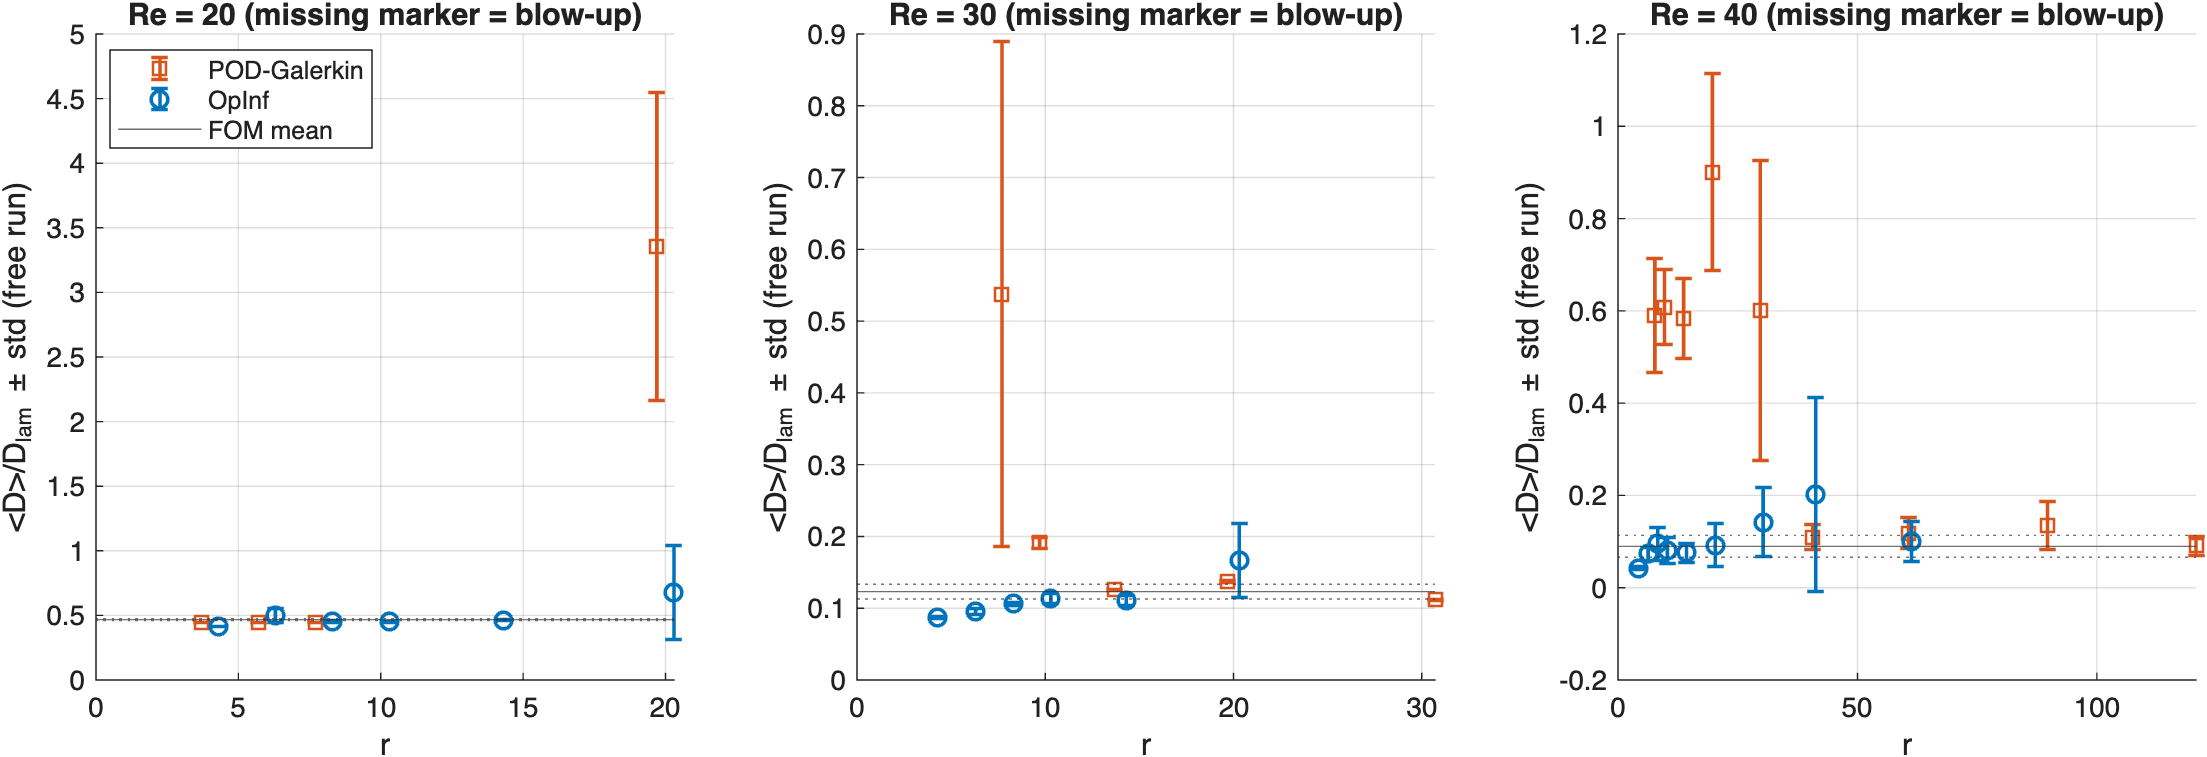
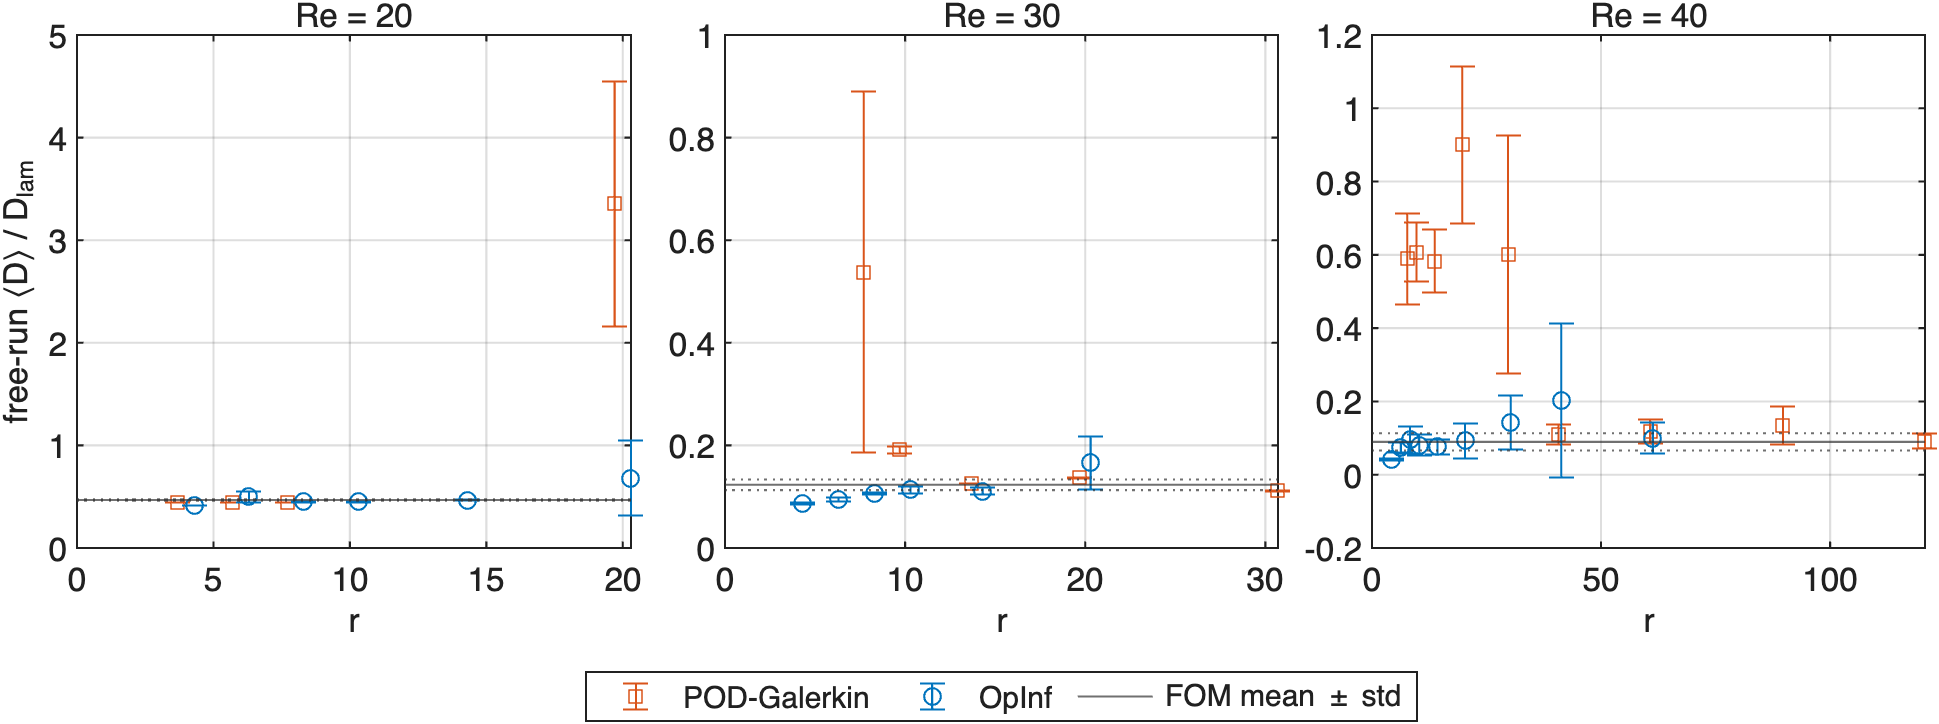
Print-size figures with larger text

diff --git a/rom/make_rom_figures.m b/rom/make_rom_figures.m
@@ -2,6 +2,12 @@
 % Reads ../rom_results/rom_Re20.mat, rom_Re30.mat, rom_Re40.mat, diag_Re40.mat,
 % rom_param.mat (and baseline_standard_POD/ for the symmetry comparison) and
 % writes PNG figures to ../rom_results/figures/ and a text summary.
+%
+% Every figure is drawn at the size it is printed (inches) with 8-9 pt text,
+% so nothing has to be shrunk later:
+%   paper, one column  (3.5 in):  fig_r1, fig_r7
+%   paper, full width  (6.2 in):  fig_r2, fig_r4      (5.2 in: fig_r9)
+%   slides only        (~7 in):   fig_r3, fig_r5, fig_r6, fig_r8
 
 clear; close all;
 here = fileparts(mfilename('fullpath'));  root = fileparts(here);  addpath(here);
@@ -37,178 +43,194 @@ for c = 1:3
     end
 end
 
-%% ---------------------------------------------------------------- Fig 1: symmetry
-f = figure('Position', [50 50 1100 380], 'Color', 'w');
+%% ---------------------------------------------------------------- Fig 1: symmetry (paper, one column)
+[f, tl] = newfig(3.5, 2.4, 8, 1, 2);  ax0 = [];
 for c = [1 3]
-    subplot(1, 2, 1 + (c == 3));
-    R = RR{c};  hold on;
+    ax = nexttile(tl);  hold on;  if isempty(ax0), ax0 = ax; end
+    R = RR{c};
     bfile = fullfile(res_dir, 'baseline_standard_POD', ['rom_' names{c} '.mat']);
     if exist(bfile, 'file')
         B = load(bfile, 'R');  rb = cellfun(@(x) x.r, B.R.res(:, 1));
-        plot(rb, B.R.proj_err_test, 's--', 'Color', cG, 'LineWidth', 1.3, 'DisplayName', 'standard POD, test window');
+        plot(rb, B.R.proj_err_test, 's--', 'Color', cG, 'MarkerSize', 4, 'DisplayName', 'standard POD, test');
     end
-    plot(R.r_list, R.proj_err_train, 'o:', 'Color', cO, 'LineWidth', 1.3, 'DisplayName', 'invariant POD, training window');
-    plot(R.r_list, R.proj_err_test, 'o-', 'Color', cO, 'LineWidth', 1.5, 'DisplayName', 'invariant POD, test window');
-    grid on;  xlabel('number of modes r');  ylabel('relative projection error');
-    title(sprintf('Re = %d: POD projection error', Res(c)));  legend('Location', 'northeast');  ylim([0 1]);
+    plot(R.r_list, R.proj_err_train, 'o:', 'Color', cO, 'MarkerSize', 4, 'DisplayName', 'invariant POD, train');
+    plot(R.r_list, R.proj_err_test, 'o-', 'Color', cO, 'MarkerSize', 4, 'DisplayName', 'invariant POD, test');
+    grid on;  box on;  xlabel('r');  ylim([0 1]);
+    if c == 1, ylabel('projection error'); end
+    title(sprintf('Re = %d', Res(c)));
 end
+shared_legend(ax0, 'north', 2);
 save_fig(f, fig_dir, 'fig_r1_symmetry_projection');
 
-%% ---------------------------------------------------------------- Fig 2: accuracy vs r
-f = figure('Position', [50 50 1300 700], 'Color', 'w');
+%% ---------------------------------------------------------------- Fig 2: accuracy vs r (paper, full width)
+[f, tl] = newfig(6.2, 3.9, 8, 2, 3);  axs = gobjects(2, 3);
 for c = 1:3
-    R = RR{c};  [cg, co, tg, to, fg, fo, tp, fp] = deal(nan(1, numel(R.r_list)));
+    R = RR{c};  [tg, to, fg, fo, tp, fp] = deal(nan(1, numel(R.r_list)));
     for ir = 1:numel(R.r_list)
         g = R.res{ir, 1};  o = R.res{ir, 2};
-        cg(ir) = g.coef_short;  tg(ir) = g.t_valid;  fg(ir) = g.err_short;
+        tg(ir) = g.t_valid;  fg(ir) = g.err_short;
         tp(ir) = R.pers{ir}.t_valid;  fp(ir) = R.pers{ir}.err_short;
-        if o.built, co(ir) = o.coef_short; to(ir) = o.t_valid; fo(ir) = o.err_short; end
+        if o.built, to(ir) = o.t_valid; fo(ir) = o.err_short; end
     end
-    subplot(2, 3, c);  hold on;
-    plot(R.r_list, fg, 's-', 'Color', cG, 'LineWidth', 1.5, 'DisplayName', 'POD-Galerkin');
-    plot(R.r_list, fo, 'o-', 'Color', cO, 'LineWidth', 1.5, 'DisplayName', 'OpInf');
-    plot(R.r_list, fp, ':', 'Color', cP, 'LineWidth', 1.5, 'DisplayName', 'persistence a(t)=a(t_0)');
-    plot(R.r_list, R.proj_err_test, 'k--', 'LineWidth', 1, 'DisplayName', 'projection (best possible)');
-    grid on;  xlabel('r');  ylabel('field error');  set(gca, 'YScale', 'log');
-    title(sprintf('Re = %d: field error, first %g time units', Res(c), R.cfg.horizon));
-    if c == 1, legend('Location', 'southwest'); end
-    subplot(2, 3, 3 + c);  hold on;
-    plot(R.r_list, tg, 's-', 'Color', cG, 'LineWidth', 1.5);
-    plot(R.r_list, to, 'o-', 'Color', cO, 'LineWidth', 1.5);
+    axs(1, c) = nexttile(tl, c);  hold on;
+    plot(R.r_list, fg, 's-', 'Color', cG, 'MarkerSize', 4, 'DisplayName', 'POD-Galerkin');
+    plot(R.r_list, fo, 'o-', 'Color', cO, 'MarkerSize', 4, 'DisplayName', 'OpInf');
+    plot(R.r_list, fp, ':', 'Color', cP, 'LineWidth', 1.5, 'DisplayName', 'persistence');
+    plot(R.r_list, R.proj_err_test, 'k--', 'DisplayName', 'projection error (best possible)');
+    grid on;  box on;  set(gca, 'YScale', 'log');
+    yt = [0.05 0.1 0.2 0.3 0.5 1 2 3 5];  yl = ylim;  yt = yt(yt >= yl(1) & yt <= yl(2));
+    set(gca, 'YTick', yt, 'YTickLabel', compose('%g', yt), 'YMinorGrid', 'off');
+    if c == 1, ylabel('field error'); end
+    title(sprintf('Re = %d', Res(c)));
+    axs(2, c) = nexttile(tl, 3 + c);  hold on;
+    plot(R.r_list, tg, 's-', 'Color', cG, 'MarkerSize', 4);
+    plot(R.r_list, to, 'o-', 'Color', cO, 'MarkerSize', 4);
     plot(R.r_list, tp, ':', 'Color', cP, 'LineWidth', 1.5);
-    yline(R.cfg.Hv, 'k:', 'test horizon');
-    grid on;  xlabel('r');  ylabel('valid prediction time');
-    title(sprintf('Re = %d: time until coef. error > %.1f', Res(c), R.cfg.tv_thr));
+    yline(R.cfg.Hv, 'k:', 'test horizon', 'LabelVerticalAlignment', 'bottom', 'FontSize', 7);
+    grid on;  box on;  xlabel('r');  ylim([0 1.15 * R.cfg.Hv]);
+    if c == 1, ylabel('valid time t_v'); end
 end
+shared_legend(axs(1, 1), 'south', 4);
 save_fig(f, fig_dir, 'fig_r2_accuracy_vs_r');
 
-%% ---------------------------------------------------------------- Fig 3: error vs time
-f = figure('Position', [50 50 1300 380], 'Color', 'w');
+%% ---------------------------------------------------------------- Fig 3: error vs time (slides)
+[f, tl] = newfig(7, 2.6, 9, 1, 3);  ax0 = [];
 rshow = [20 20 30];
 for c = 1:3
     R = RR{c};  ir = find(R.r_list >= rshow(c), 1);
-    dt = R.t(2) - R.t(1);  subplot(1, 3, c);  hold on;
+    dt = R.t(2) - R.t(1);  ax = nexttile(tl);  hold on;  if isempty(ax0), ax0 = ax; end
     for im = 1:2
         x = R.res{ir, im};  if ~x.built, continue; end
         cc = x.coef_curves;  cc(isnan(cc)) = 2;  tt = (0:size(cc, 2)-1) * dt;
         col = cG;  if im == 2, col = cO; end
-        plot(tt, cc', '-', 'Color', [col 0.25], 'HandleVisibility', 'off');
+        plot(tt, cc', '-', 'Color', [col 0.25], 'LineWidth', 0.6, 'HandleVisibility', 'off');
         plot(tt, mean(cc, 1), '-', 'Color', col, 'LineWidth', 2, 'DisplayName', x.rom.type);
     end
     pcv = R.pers{ir}.coef_curves;
     plot((0:size(pcv, 2)-1) * dt, mean(pcv, 1), ':', 'Color', cP, 'LineWidth', 2, 'DisplayName', 'persistence');
     yline(R.cfg.tv_thr, 'k:', 'HandleVisibility', 'off');
-    grid on;  xlabel('time since start of prediction');  ylabel('coefficient error');
-    title(sprintf('Re = %d, r = %d (test window, %d starts)', Res(c), R.r_list(ir), size(cc, 1)));
-    ylim([0 2]);  legend('Location', 'southeast');
+    grid on;  box on;  xlabel('time since start');  ylim([0 2]);
+    if c == 1, ylabel('coefficient error'); end
+    title(sprintf('Re = %d, r = %d', Res(c), R.r_list(ir)));
 end
+shared_legend(ax0, 'south', 3);
 save_fig(f, fig_dir, 'fig_r3_error_vs_time');
 
-%% ---------------------------------------------------------------- Fig 4: long free runs at Re = 40
+%% ---------------------------------------------------------------- Fig 4: long free runs at Re = 40 (paper, full width)
 R = RR{3};  kfree = find(R.t >= R.cfg.t_train(1));  tf = R.t(kfree);
 rr = [10 30 121];                                            % 121: Galerkin only (converged)
-f = figure('Position', [50 50 1300 800], 'Color', 'w');
+[f, tl] = newfig(6.2, 4.6, 8, numel(rr), 4);  ax0 = [];
+edges = linspace(0, 0.4, 41);
 for q = 1:numel(rr)
     ir = find(R.r_list >= rr(q), 1);
-    subplot(numel(rr), 4, (q-1)*4 + (1:3));  hold on;
-    plot(tf, R.D_fom(kfree), '-', 'Color', cF, 'DisplayName', 'FOM');
+    ax = nexttile(tl, [1 3]);  hold on;  if isempty(ax0), ax0 = ax; end
+    plot(tf, R.D_fom(kfree), '-', 'Color', cF, 'LineWidth', 0.8, 'DisplayName', 'FOM');
     for im = 1:2
         x = R.res{ir, im};  if ~x.built, continue; end
         col = cG;  if im == 2, col = cO; end
-        plot(tf, x.D_free, '-', 'Color', col, 'DisplayName', sprintf('%s (%s)', x.rom.type, x.free_status));
+        plot(tf, x.D_free, '-', 'Color', col, 'LineWidth', 0.8, 'DisplayName', x.rom.type);
     end
-    xline(R.cfg.t_train(2), 'k--', 'end of training', 'HandleVisibility', 'off');
-    grid on;  ylim([0 0.4]);  ylabel('D / D_{lam}');
-    title(sprintf('Re = 40, r = %d: free run from t = %g', R.r_list(ir), tf(1)));
-    if q == 1, legend('Location', 'northwest'); end
+    if q == 1
+        xline(R.cfg.t_train(2), 'k--', 'end of training ', 'LabelOrientation', 'horizontal', ...
+            'LabelHorizontalAlignment', 'left', 'LabelVerticalAlignment', 'top', 'FontSize', 7, 'HandleVisibility', 'off');
+    else
+        xline(R.cfg.t_train(2), 'k--', 'HandleVisibility', 'off');
+    end
+    grid on;  box on;  ylim([0 0.4]);  xlim([tf(1) tf(end)]);  ylabel('D / D_{lam}');
+    title(sprintf('r = %d', R.r_list(ir)));
     if q == numel(rr), xlabel('time t'); end
-    subplot(numel(rr), 4, q*4);  hold on;
-    edges = linspace(0, 0.4, 41);
-    histogram(R.D_fom(kfree), edges, 'Normalization', 'pdf', 'FaceColor', cF, 'EdgeColor', 'none', 'FaceAlpha', 0.4, 'DisplayName', 'FOM');
+    nexttile(tl);  hold on;
+    histogram(R.D_fom(kfree), edges, 'Normalization', 'pdf', 'FaceColor', cF, 'EdgeColor', 'none', 'FaceAlpha', 0.4);
     for im = 1:2
         x = R.res{ir, im};  if ~x.built, continue; end
         col = cG;  if im == 2, col = cO; end
         d = x.D_free(~isnan(x.D_free));
-        histogram(d, edges, 'Normalization', 'pdf', 'DisplayStyle', 'stairs', 'EdgeColor', col, 'LineWidth', 1.5);
+        histogram(d, edges, 'Normalization', 'pdf', 'DisplayStyle', 'stairs', 'EdgeColor', col, 'LineWidth', 1.2);
     end
-    xline(0.15, 'k:');  grid on;  xlabel('D / D_{lam}');  ylabel('pdf');  title('distribution');
-    set(gca, 'YScale', 'log');
+    xline(0.15, 'k:');  grid on;  box on;  ylabel('pdf');  set(gca, 'YScale', 'log');
+    if q == 1, title('distribution'); end
+    if q == numel(rr), xlabel('D / D_{lam}'); end
 end
+shared_legend(ax0, 'north', 3);
 save_fig(f, fig_dir, 'fig_r4_free_run_Re40');
 
-%% ---------------------------------------------------------------- Fig 5: statistics vs r
-f = figure('Position', [50 50 1300 380], 'Color', 'w');
+%% ---------------------------------------------------------------- Fig 5: statistics vs r (slides)
+[f, tl] = newfig(7, 2.6, 9, 1, 3);  ax0 = [];
 for c = 1:3
-    R = RR{c};  subplot(1, 3, c);  hold on;
+    R = RR{c};  ax = nexttile(tl);  hold on;  if isempty(ax0), ax0 = ax; end
     [mg, mo, sg, so] = deal(nan(1, numel(R.r_list)));
     for ir = 1:numel(R.r_list)
         g = R.res{ir, 1};  o = R.res{ir, 2};
         if strcmp(g.free_status, 'ok'), mg(ir) = g.free_stats.mean; sg(ir) = g.free_stats.std; end
         if o.built && strcmp(o.free_status, 'ok'), mo(ir) = o.free_stats.mean; so(ir) = o.free_stats.std; end
     end
-    errorbar(R.r_list - 0.3, mg, sg, 's', 'Color', cG, 'LineWidth', 1.3, 'DisplayName', 'POD-Galerkin');
-    errorbar(R.r_list + 0.3, mo, so, 'o', 'Color', cO, 'LineWidth', 1.3, 'DisplayName', 'OpInf');
-    yline(R.fom_stats.mean, '-', 'Color', cF, 'DisplayName', 'FOM mean');
+    errorbar(R.r_list - 0.3, mg, sg, 's', 'Color', cG, 'MarkerSize', 4, 'DisplayName', 'POD-Galerkin');
+    errorbar(R.r_list + 0.3, mo, so, 'o', 'Color', cO, 'MarkerSize', 4, 'DisplayName', 'OpInf');
+    yline(R.fom_stats.mean, '-', 'Color', cF, 'DisplayName', 'FOM mean \pm std');
     yline(R.fom_stats.mean + R.fom_stats.std, ':', 'Color', cF, 'HandleVisibility', 'off');
     yline(R.fom_stats.mean - R.fom_stats.std, ':', 'Color', cF, 'HandleVisibility', 'off');
-    grid on;  xlabel('r');  ylabel('<D>/D_{lam} \pm std (free run)');
-    title(sprintf('Re = %d (missing marker = blow-up)', Res(c)));
-    if c == 1, legend('Location', 'best'); end
+    grid on;  box on;  xlabel('r');
+    if c == 1, ylabel('free-run \langleD\rangle / D_{lam}'); end
+    title(sprintf('Re = %d', Res(c)));
 end
+shared_legend(ax0, 'south', 3);
 save_fig(f, fig_dir, 'fig_r5_statistics_vs_r');
 
-%% ---------------------------------------------------------------- Fig 6: energy budget
+%% ---------------------------------------------------------------- Fig 6: energy budget (slides)
 dfile = fullfile(res_dir, 'diag_Re40.mat');
 if exist(dfile, 'file')
     L = load(dfile, 'G');  G = L.G;
-    f = figure('Position', [50 50 1200 420], 'Color', 'w');
-    subplot(1, 2, 1);  hold on;
-    plot(G.cfg.r_list, G.proj_quiet, 'o-', 'Color', cO, 'LineWidth', 1.5, 'DisplayName', 'quiet snapshots');
-    plot(G.cfg.r_list, G.proj_burst, 's-', 'Color', cG, 'LineWidth', 1.5, 'DisplayName', 'burst snapshots (D > 0.15 D_{lam})');
-    grid on;  xlabel('r');  ylabel('projection error');  legend;  title('Re = 40: is the basis worse during bursts?');
-    subplot(1, 2, 2);
+    [f, tl] = newfig(7, 3.4, 9, 1, 2);
+    nexttile(tl);  hold on;
+    plot(G.cfg.r_list, G.proj_quiet, 'o-', 'Color', cO, 'MarkerSize', 5, 'DisplayName', 'quiet snapshots');
+    plot(G.cfg.r_list, G.proj_burst, 's-', 'Color', cG, 'MarkerSize', 5, 'DisplayName', 'burst snapshots');
+    grid on;  box on;  xlabel('r');  ylabel('projection error');  ylim([0 1]);
+    legend('Location', 'southwest');  title('basis error, quiet vs burst');
+    nexttile(tl);
     cl = G.closure;  cl = cl(arrayfun(@(d) ~isempty(d.r), cl));
     M = [[cl.Pt_q]; [cl.PG_q]; [cl.PO_q]; [cl.Pt_b]; [cl.PG_b]; [cl.PO_b]]';
-    b = bar(categorical(arrayfun(@(d) sprintf('r = %d', d.r), cl, 'UniformOutput', false)), M);
+    b = bar(categorical(arrayfun(@(d) sprintf('%d', d.r), cl, 'UniformOutput', false)), M);
     cols = [cF; cG; cO; cF; cG; cO];
     for k = 1:6, b(k).FaceColor = cols(k, :); if k > 3, b(k).FaceAlpha = 0.45; end, end
-    set(gca, 'YScale', 'linear');  grid on;  ylabel('d(|a|^2/2)/dt');
-    legend({'true (quiet)', 'Galerkin (quiet)', 'OpInf (quiet)', 'true (burst)', 'Galerkin (burst)', 'OpInf (burst)'}, 'Location', 'northwest');
-    title('resolved energy budget on training snapshots');
+    grid on;  box on;  xlabel('r');  ylabel('\langle a \cdot da/dt \rangle');
+    lg = legend({'true, quiet', 'Galerkin, quiet', 'OpInf, quiet', 'true, burst', 'Galerkin, burst', 'OpInf, burst'}, 'Location', 'southoutside');
+    lg.NumColumns = 3;  lg.ItemTokenSize = [12 8];
+    title('resolved energy budget');
     save_fig(f, fig_dir, 'fig_r6_energy_budget_Re40');
 end
 
-%% ---------------------------------------------------------------- Fig 7: unseen Re
+%% ---------------------------------------------------------------- Fig 7: unseen Re (paper, one column)
 pfile = fullfile(res_dir, 'rom_param.mat');
 if exist(pfile, 'file')
     L = load(pfile, 'P');  PP = L.P;
-    f = figure('Position', [50 50 1300 420], 'Color', 'w');
+    [f, tl] = newfig(3.5, 2.5, 8, 1, 2);
     ir = numel(PP.r_list);
     [~, o] = sort(PP.allRe);
-    subplot(1, 2, 1);  hold on;
+    ax0 = nexttile(tl);  hold on;
     for q = o
         x = PP.res{ir, q, 1};  y = PP.res{ir, q, 2};
         mk = 'o';  if ~x.seen, mk = 'p'; end
-        errorbar(x.Re, x.fom_stats.mean, x.fom_stats.std, mk, 'Color', cF, 'MarkerFaceColor', cF, 'LineWidth', 1.2, 'HandleVisibility', 'off');
-        if strcmp(x.free_status, 'ok'), errorbar(x.Re - 0.5, x.stats.mean, x.stats.std, mk, 'Color', cG, 'LineWidth', 1.2, 'HandleVisibility', 'off'); end
-        if strcmp(y.free_status, 'ok'), errorbar(y.Re + 0.5, y.stats.mean, y.stats.std, mk, 'Color', cO, 'LineWidth', 1.2, 'HandleVisibility', 'off'); end
+        errorbar(x.Re, x.fom_stats.mean, x.fom_stats.std, mk, 'Color', cF, 'MarkerFaceColor', cF, 'MarkerSize', 4, 'HandleVisibility', 'off');
+        if strcmp(x.free_status, 'ok'), errorbar(x.Re - 0.8, x.stats.mean, x.stats.std, mk, 'Color', cG, 'MarkerSize', 4, 'HandleVisibility', 'off'); end
+        if strcmp(y.free_status, 'ok'), errorbar(y.Re + 0.8, y.stats.mean, y.stats.std, mk, 'Color', cO, 'MarkerSize', 4, 'HandleVisibility', 'off'); end
     end
-    plot(nan, nan, 'o', 'Color', cF, 'MarkerFaceColor', cF, 'DisplayName', 'FOM');
-    plot(nan, nan, 'o', 'Color', cG, 'DisplayName', 'POD-Galerkin');
-    plot(nan, nan, 'o', 'Color', cO, 'DisplayName', 'OpInf');
-    plot(nan, nan, 'pk', 'DisplayName', 'star = unseen Re');
-    grid on;  xlabel('Re');  ylabel('<D>/D_{lam} \pm std (free run)');  legend('Location', 'northeast');
-    title(sprintf('one parametric ROM, r = %d', PP.r_list(ir)));
-    subplot(1, 2, 2);  hold on;
+    plot(nan, nan, 'o', 'Color', cF, 'MarkerFaceColor', cF, 'MarkerSize', 4, 'DisplayName', 'FOM');
+    plot(nan, nan, 'o-', 'Color', cG, 'MarkerSize', 4, 'DisplayName', 'POD-Galerkin');
+    plot(nan, nan, 'o-', 'Color', cO, 'MarkerSize', 4, 'DisplayName', 'OpInf');
+    plot(nan, nan, 'pk', 'MarkerFaceColor', 'k', 'MarkerSize', 7, 'DisplayName', 'unseen Re');
+    grid on;  box on;  xlabel('Re');  ylabel('\langleD\rangle / D_{lam}');  xlim([17 43]);
+    title('free-run dissipation');
+    nexttile(tl);  hold on;
     for m = 1:2
         e = arrayfun(@(q) PP.res{ir, q, m}.coef_short, o);
         col = cG;  if m == 2, col = cO; end
-        plot(PP.allRe(o), e, '-', 'Color', col, 'LineWidth', 1.5, 'DisplayName', PP.res{ir, 1, m}.method);
+        plot(PP.allRe(o), e, '-', 'Color', col, 'HandleVisibility', 'off');
         un = ~arrayfun(@(q) PP.res{ir, q, m}.seen, o);
-        plot(PP.allRe(o(un)), e(un), 'p', 'Color', col, 'MarkerSize', 12, 'MarkerFaceColor', col, 'HandleVisibility', 'off');
+        plot(PP.allRe(o(un)), e(un), 'p', 'Color', col, 'MarkerSize', 7, 'MarkerFaceColor', col, 'HandleVisibility', 'off');
     end
-    grid on;  xlabel('Re');  ylabel(sprintf('coef. error, first %g time units', PP.cfg.horizon));
-    legend('Location', 'northwest');  title('short-horizon accuracy (stars: unseen Re)');
+    grid on;  box on;  xlabel('Re');  ylabel('coefficient error');  xlim([17 43]);
+    title(sprintf('first %g time units', PP.cfg.horizon));
+    shared_legend(ax0, 'north', 2);
     save_fig(f, fig_dir, 'fig_r7_unseen_Re');
     P('\n==== parametric ROM (train Re = %s) ====\n', mat2str(PP.cfg.train_Re));
     for ir2 = 1:numel(PP.r_list)
@@ -223,12 +245,12 @@ if exist(pfile, 'file')
     end
 end
 
-%% ---------------------------------------------------------------- Fig 8: vorticity fields at Re = 40
+%% ---------------------------------------------------------------- Fig 8: vorticity fields at Re = 40 (slides)
 R = RR{3};  ir = find(R.r_list >= 30, 1);  N = R.cfg.N;
 S = matfile(R.cfg.train_file);
 it = find(R.test);  k0 = it(1);  dt = R.t(2) - R.t(1);
 lags = [0 2 5 10];
-f = figure('Position', [50 50 1300 950], 'Color', 'w');
+[f, tl] = newfig(6, 6.4, 9, numel(lags), 4);  tl.TileSpacing = 'tight';
 At = R.Aall_test(1:R.r_list(ir), :);                        % projected FOM in the test window
 kk = k0 + round(lags / dt);                                  % snapshot indices of the lags
 Ahs = cell(1, 2);
@@ -240,7 +262,7 @@ for q = 1:numel(lags)
     k = kk(q);
     wF = reshape(double(S.W(:, k)), N, N);
     wP = reshape(R.wbar + R.V(:, 1:R.r_list(ir)) * At(:, k - k0 + 1), N, N);
-    fields = {wF, wP};  ttl = {'FOM', sprintf('projection, r = %d', R.r_list(ir))};
+    fields = {wF, wP};  ttl = {'FOM', 'projection'};
     for im = 1:2
         x = R.res{ir, im};
         if ~x.built, fields{end+1} = nan(N); ttl{end+1} = 'n/a'; continue; end   %#ok<SAGROW>
@@ -249,28 +271,35 @@ for q = 1:numel(lags)
     end
     lim = max(abs(wF(:)));
     for j = 1:4
-        subplot(numel(lags), 4, (q-1)*4 + j);
+        nexttile(tl, (q-1)*4 + j);
         imagesc(fields{j});  axis xy equal tight off;
-        caxis([-lim lim]);  colormap(gca, bwr(256));
-        title(sprintf('%s, t_0 + %g', ttl{j}, lags(q)));
+        clim([-lim lim]);  colormap(gca, bwr(256));
+        if q == 1, title(ttl{j}); end
+        if j == 1
+            text(-0.08, 0.5, sprintf('t_0 + %g', lags(q)), 'Units', 'normalized', 'Rotation', 90, ...
+                'HorizontalAlignment', 'center', 'VerticalAlignment', 'bottom');
+        end
     end
 end
+title(tl, sprintf('Re = 40, r = %d, test window', R.r_list(ir)), 'FontSize', 9);
 save_fig(f, fig_dir, 'fig_r8_fields_Re40');
 
-%% ---------------------------------------------------------------- Fig 9: lambda search
-f = figure('Position', [50 50 1300 380], 'Color', 'w');
+%% ---------------------------------------------------------------- Fig 9: lambda search (paper, 0.72 x full width)
+[f, tl] = newfig(5.2, 2.0, 8, 1, 3);
 rlam = [10 10 20];
 for c = 1:3
     R = RR{c};  ir = find(R.r_list >= rlam(c), 1);  o = R.res{ir, 2};
-    subplot(1, 3, c);
+    nexttile(tl);
     if ~o.built || ~isfield(o, 'lam_table'), axis off; continue; end
     T = o.lam_table;  S = T.score;  bl = isinf(S);  S(bl) = NaN;
-    imagesc(log10(T.lam2s), log10(T.lam1s), log10(S));  axis xy;  colorbar;
+    imagesc(log10(T.lam2s), log10(T.lam1s), log10(S), 'AlphaData', ~isnan(S));  axis xy;  colorbar;
+    set(gca, 'Color', [0.92 0.92 0.92]);
     hold on;  [i1, i2] = find(bl);
-    plot(log10(T.lam2s(i2)), log10(T.lam1s(i1)), 'kx', 'MarkerSize', 8, 'LineWidth', 1.2);
-    plot(log10(o.info.lam(2)), log10(o.info.lam(1)), 'wp', 'MarkerSize', 14, 'MarkerFaceColor', 'w');
-    xlabel('log_{10} \lambda_2 (quadratic)');  ylabel('log_{10} \lambda_1 (linear)');
-    title(sprintf('Re = %d, r = %d: log_{10} score (x = blow-up)', Res(c), R.r_list(ir)));
+    plot(log10(T.lam2s(i2)), log10(T.lam1s(i1)), 'kx', 'MarkerSize', 5, 'LineWidth', 1);
+    plot(log10(o.info.lam(2)), log10(o.info.lam(1)), 'wp', 'MarkerSize', 9, 'MarkerFaceColor', 'w', 'MarkerEdgeColor', 'k');
+    xlabel('log_{10} \lambda_2');
+    if c == 1, ylabel('log_{10} \lambda_1'); end
+    title(sprintf('Re = %d, r = %d', Res(c), R.r_list(ir)));
     P('\n%s r = %d lambda search: %d of %d models blew up; chosen lam = [%g %g]\n', names{c}, ...
         R.r_list(ir), nnz(bl), numel(bl), o.info.lam);
     P('   fit residual range %.3f - %.3f; condition number range %.1e - %.1e\n', ...
@@ -289,10 +318,27 @@ end
 function o = tern(c, a, b)
 if c, o = a; else, o = b; end
 end
+function [f, tl] = newfig(w, h, fs, rows, cols)
+% Figure of w x h inches with fs-point text, holding a compact rows x cols tiled layout.
+f = figure('Units', 'inches', 'Position', [1 1 w h], 'Color', 'w');
+defs = {'DefaultAxesFontSize', fs; 'DefaultTextFontSize', fs; 'DefaultLegendFontSize', fs; ...
+        'DefaultColorbarFontSize', fs; 'DefaultConstantLineFontSize', fs; ...
+        'DefaultAxesTitleFontSizeMultiplier', 1; 'DefaultAxesLabelFontSizeMultiplier', 1; ...
+        'DefaultAxesTitleFontWeight', 'normal'; 'DefaultLineLineWidth', 1.2};
+for k = 1:size(defs, 1)
+    try, set(f, defs{k, 1}, defs{k, 2}); catch, end      % skip any default this release lacks
+end
+tl = tiledlayout(f, rows, cols, 'TileSpacing', 'compact', 'Padding', 'compact');
+end
+function shared_legend(ax, where, ncol)
+% One legend for the whole tiled layout, built from the DisplayNames in axes ax.
+lg = legend(ax);  lg.NumColumns = ncol;  lg.ItemTokenSize = [18 10];
+try, lg.Layout.Tile = where; catch, lg.Location = 'best'; end
+end
 function save_fig(f, d, name)
 try, theme(f, 'light'); catch, end
 set(f, 'Color', 'w');
-exportgraphics(f, fullfile(d, [name '.png']), 'Resolution', 200);
+exportgraphics(f, fullfile(d, [name '.png']), 'Resolution', 300);
 end
 function c = bwr(m)
 h = floor(m/2);  up = linspace(0, 1, h)';
